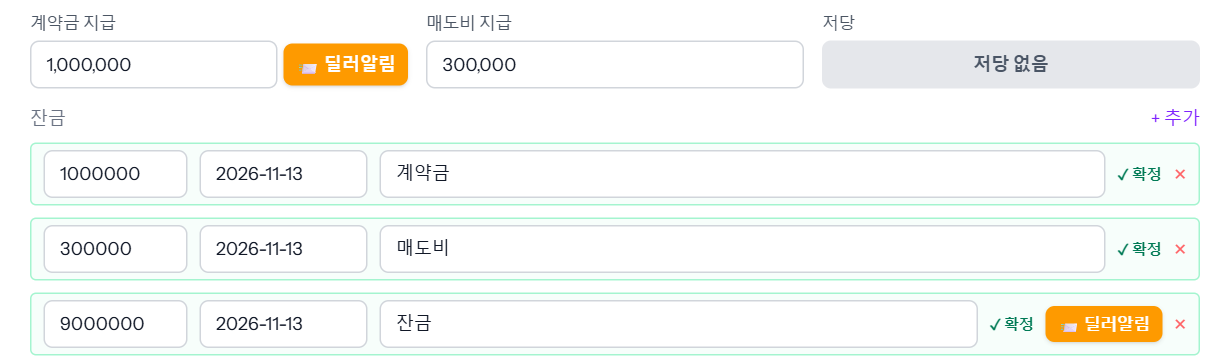
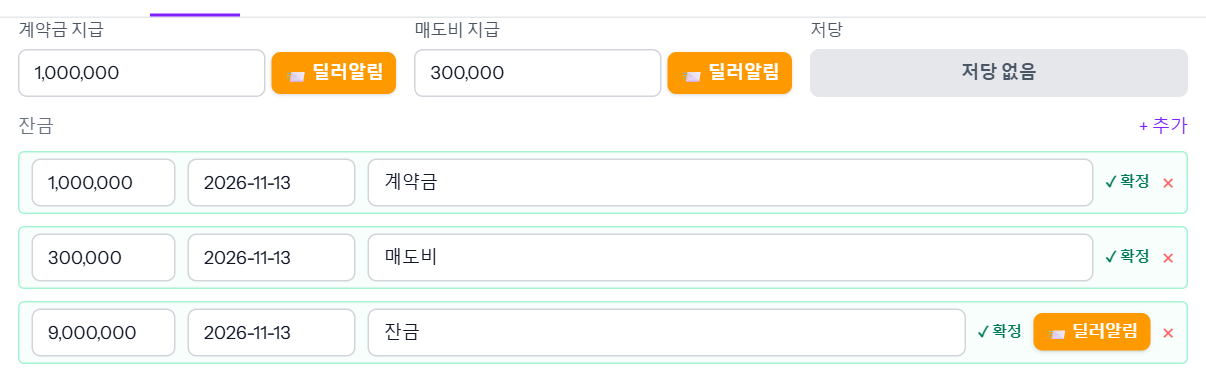
feat(vehicles): 매도비도 딜러 입금완료 알림톡 — 계약금과 같은 번호·같은 템플릿
jin «매도비도 계약금·매입잔금 받는 번호와 같아. 매도비도 넣어주라».
매입 탭 매도비 칸 옆에 [📨 딜러알림] (확정 매도비가 있을 때만, 계약금과 같은 모양).

- 발송·모달이 kind=selling_fee 를 받는다. 금액 = 확정 매도비 합계(계약금처럼 차 단위),
  이체확인증은 마지막 확정 매도비 줄에.
- 본문 「구분」 = 매도비(승인본의 변수 자리라 재승인 없음).
- 계좌 = 매도비 계좌가 있으면 그 뒤 4자리, 없으면 매입처 계좌(AccountMask::forSellingFee).
- 잔금 목록의 계약금·매도비 줄에는 여전히 버튼을 달지 않는다(중복 방지).
- 업무 가이드 「매입 지급과 딜러 입금완료 알림」 글·그림 갱신, 딜러알림 권한 문장 정정(11-22 누구나).

Claude-Session: https://claude.ai/code/session_01C7ygYdZAtd4AhsUU2YYM6i

diff --git a/resources/guides/purchase-payment/index.html b/resources/guides/purchase-payment/index.html
@@ -23,8 +23,8 @@
     <div class="gd-n">2단계</div>
     <h3>[수정 저장] — 재무가 넣은 지급은 바로 「확정」됩니다</h3>
     <p>창 오른쪽 아래 [수정 저장]을 누릅니다. 재무·관리 계정이 넣은 지급은 저장하는 순간 <strong>「✓ 확정」</strong>으로 기록되고, 따로 승인받을 필요가 없습니다.</p>
-    <p>차를 다시 열면 계약금·매도비도 잔금 목록에 한 줄씩(비고 「계약금」·「매도비」, 날짜는 저장한 날) 「✓ 확정」으로 보이고, 계약금 칸 옆과 잔금 줄 옆에 주황색 <strong>[📨 딜러알림]</strong> 버튼이 생깁니다.</p>
-    <img src="02.png" alt="계약금·매도비·잔금 세 줄이 확정으로 표시되고 딜러알림 버튼이 생긴 모습">
+    <p>차를 다시 열면 계약금·매도비도 잔금 목록에 한 줄씩(비고 「계약금」·「매도비」, 날짜는 저장한 날) 「✓ 확정」으로 보이고, 계약금 칸 옆 · 매도비 칸 옆 · 잔금 줄 옆에 주황색 <strong>[📨 딜러알림]</strong> 버튼이 생깁니다.</p>
+    <img src="02.png" alt="계약금·매도비·잔금 세 줄이 확정으로 표시되고 계약금 칸·매도비 칸·잔금 줄 옆에 딜러알림 버튼이 생긴 모습">
 </div>
 
 <div class="gd-step">
@@ -55,7 +55,7 @@
 <div class="gd-step">
     <div class="gd-n">5단계</div>
     <h3>[📨 딜러알림] → 이체확인증을 붙이고 보냅니다</h3>
-    <p>실제로 송금한 뒤에 누릅니다. 계약금은 계약금 칸 옆, 잔금은 <strong>그 잔금 줄 옆</strong>의 버튼입니다(잔금을 나눠 보냈으면 줄마다 따로 보냅니다). 매도비에는 버튼이 없습니다.</p>
+    <p>실제로 송금한 뒤에 누릅니다. 계약금은 계약금 칸 옆, 잔금은 <strong>그 잔금 줄 옆</strong>의 버튼입니다(잔금을 나눠 보냈으면 줄마다 따로 보냅니다). 매도비는 매도비 칸 옆의 버튼입니다 — 같은 딜러 번호로 「구분: 매도비」가 나가고, 계좌는 매도비 계좌를 따로 적어 뒀으면 그 계좌 뒤 4자리, 비어 있으면 매입처 계좌 뒤 4자리가 찍힙니다.</p>
     <p>누르면 「딜러에게 입금 완료 알림톡 보내기」 창이 뜹니다.</p>
     <ul>
         <li><strong>이체확인증 붙이기</strong> — 은행 이체 화면을 Win+Shift+S로 찍은 뒤 이 창에서 Ctrl+V로 붙여넣거나, [파일 선택]으로 이미지·PDF(10MB까지)를 고릅니다.</li>
@@ -92,7 +92,7 @@
 <div class="gd-check">
     <h3>알아 둘 것</h3>
     <ul>
-        <li>지급 기록과 [📨 딜러알림]은 재무·관리만 할 수 있습니다. 영업 계정에서는 칸이 회색으로 잠겨 있습니다.</li>
+        <li>지급 기록은 재무·관리만 할 수 있습니다(영업 계정에서는 칸이 회색으로 잠겨 있습니다). [📨 딜러알림]은 그 차를 볼 수 있는 사람이면 누구나 보낼 수 있습니다.</li>
         <li>딜러 알림은 <strong>실제로 송금한 뒤</strong>에 보냅니다. 버튼은 확정된 금액만 보냅니다(저장 안 한 금액은 안 나갑니다).</li>
         <li>저당 표시를 바꿨으면 먼저 [수정 저장]을 누른 뒤 보내세요. 저장하지 않고 보내면 「저당 표시를 바꾼 뒤 아직 저장하지 않았습니다」가 뜨며 막힙니다.</li>
         <li>아직 확정되지 않은 매입 지급은 「재무 처리」 메뉴 「매입 잔금」 탭의 「재무 대기」에 모입니다. 거기서 [재무 처리 완료]를 누르면 확정됩니다.</li>

diff --git a/resources/views/livewire/erp/vehicles/index.blade.php b/resources/views/livewire/erp/vehicles/index.blade.php
@@ -3856,6 +3856,18 @@ new #[Layout('components.layouts.app')] class extends Component {
             ->where('type', 'down')->whereNotNull('confirmed_at')->sum('amount');
     }
 
+    /** 확정된 매도비 합계 — 매도비 입금완료 알림톡 버튼 조건(jin 2026-11-24 «매도비도 넣어주라»). 계약금과 같은 DB 확정분 기준. */
+    #[Computed]
+    public function confirmedSellingFee(): int
+    {
+        if ($this->editingId === null) {
+            return 0;
+        }
+
+        return (int) \App\Models\PurchaseBalancePayment::where('vehicle_id', $this->editingId)
+            ->where('type', 'selling_fee')->whereNotNull('confirmed_at')->sum('amount');
+    }
+
     /**
      * board 신호 회신 — 이 차 1대만 닫는다(묶음 통째가 아니라 부분입금 대응).
      * 권한 = canConfirmFinance(super·admin·업무관리자·role∈{재무,관리}).
@@ -5812,7 +5824,9 @@ new #[Layout('components.layouts.app')] class extends Component {
      */
     private function deliverPurchasePaid(string $kind, ?int $pbpId, ?\App\Models\PurchaseBalancePayment $proofRow): void
     {
-        abort_unless(in_array($kind, ['down', 'balance'], true), 422);
+        // 💰 매도비(selling_fee)도 같은 딜러 번호로 보낸다(jin 2026-11-24 «매도비도 계약금·매입잔금 받는 번호와 같아»).
+        //    승인된 본문의 「구분」이 변수라 재승인 없이 「매도비」로 나간다. 계좌는 매도비 계좌(없으면 매입처 계좌).
+        abort_unless(in_array($kind, ['down', 'balance', 'selling_fee'], true), 422);
         // 🔓 딜러 수동 알림톡 3종은 권한을 나누지 않는다 — 그 차를 볼 수 있으면 보낸다(jin 2026-11-22 «누구나로 변경»).
 
         if ($this->editingId === null) {
@@ -5829,9 +5843,9 @@ new #[Layout('components.layouts.app')] class extends Component {
         }
 
         // 금액 — 화면 draft 가 아니라 **DB 의 확정 행**에서 읽는다(저장 전 입력값을 보내면 거짓 통지).
-        if ($kind === 'down') {
+        if ($kind === 'down' || $kind === 'selling_fee') {
             $amount = (int) $vehicle->purchaseBalancePayments()
-                ->where('type', 'down')->whereNotNull('confirmed_at')->sum('amount');
+                ->where('type', $kind)->whereNotNull('confirmed_at')->sum('amount');
         } else {
             $row = $vehicle->purchaseBalancePayments()
                 ->where('type', 'balance')->whereNotNull('confirmed_at')->find($pbpId);
@@ -5880,9 +5894,9 @@ new #[Layout('components.layouts.app')] class extends Component {
 
         $vars = [
             '차량번호' => $vehicle->vehicle_number,
-            '구분' => $kind === 'down' ? __('vehicle.paidnotice.kind_down') : __('vehicle.paidnotice.kind_balance'),
+            '구분' => __('vehicle.paidnotice.kind_'.$kind),
             '금액' => number_format($amount).'원',
-            '계좌' => \App\Support\AccountMask::forVehicle($vehicle),
+            '계좌' => $kind === 'selling_fee' ? \App\Support\AccountMask::forSellingFee($vehicle) : \App\Support\AccountMask::forVehicle($vehicle),
             '입금자명' => \App\Support\AlimtalkConfig::active()->companyLabel(),
         ];
 
@@ -6001,7 +6015,7 @@ new #[Layout('components.layouts.app')] class extends Component {
      */
     public function openPaidNotice(string $kind, ?int $pbpId = null): void
     {
-        abort_unless(in_array($kind, ['down', 'balance'], true), 422);
+        abort_unless(in_array($kind, ['down', 'balance', 'selling_fee'], true), 422);
         // 🔓 딜러 수동 알림톡 3종은 권한을 나누지 않는다 — 그 차를 볼 수 있으면 보낸다(jin 2026-11-22 «누구나로 변경»).
         if ($this->editingId === null) {
             $this->dispatch('notify', message: __('vehicle.paidnotice.save_first'), type: 'warning');
@@ -6012,9 +6026,11 @@ new #[Layout('components.layouts.app')] class extends Component {
         abort_unless($vehicle && auth()->user()->canScopeVehicle($vehicle), 403);
 
         $rows = $vehicle->purchaseBalancePayments()->where('type', $kind)->whereNotNull('confirmed_at');
-        $row = $kind === 'down' ? $rows->orderByDesc('id')->first() : $rows->find($pbpId);
-        $amount = $kind === 'down'
-            ? (int) $vehicle->purchaseBalancePayments()->where('type', 'down')->whereNotNull('confirmed_at')->sum('amount')
+        // 계약금·매도비는 차 단위(금액칸 옆 버튼) — 합계를 보내고 이체확인증은 마지막 확정 줄에 붙인다. 잔금은 줄 단위.
+        $perVehicle = $kind === 'down' || $kind === 'selling_fee';
+        $row = $perVehicle ? $rows->orderByDesc('id')->first() : $rows->find($pbpId);
+        $amount = $perVehicle
+            ? (int) $vehicle->purchaseBalancePayments()->where('type', $kind)->whereNotNull('confirmed_at')->sum('amount')
             : (int) ($row->amount ?? 0);
         if (! $row || $amount <= 0) {
             $this->dispatch('notify', message: __('vehicle.paidnotice.not_confirmed'), type: 'error');
@@ -10678,9 +10694,19 @@ function vehicleColumnsToggle(columns, serverKnows) {
                 </div>
                 <div>
                     <label class="label-base">{{ __('vehicle.field.selling_fee_payment') }}</label>
-                    <input wire:model="selling_fee_payment_str" type="text" data-money
-                           class="input-base {{ $canConfirmFinance ? '' : 'bg-gray-100 text-gray-500' }}"
-                           placeholder="0" @if(!$canConfirmFinance) disabled @endif />
+                    <div class="flex items-center gap-1">
+                        <input wire:model="selling_fee_payment_str" type="text" data-money
+                               class="input-base min-w-0 flex-1 {{ $canConfirmFinance ? '' : 'bg-gray-100 text-gray-500' }}"
+                               placeholder="0" @if(!$canConfirmFinance) disabled @endif />
+                        {{-- 딜러에게 「매도비 입금완료」 통지 (jin 2026-11-24) — 계약금과 같은 번호·같은 템플릿, 확정 매도비가 있을 때만. --}}
+                        @if($editingId !== null && $this->paidNoticeEnabled && $this->confirmedSellingFee > 0)
+                        <button type="button" wire:click="openPaidNotice('selling_fee')"
+                                title="{{ __('vehicle.paidnotice.btn_title') }}"
+                                class="shrink-0 whitespace-nowrap rounded-md bg-amber-500 px-2 py-1.5 text-xs font-semibold text-white shadow-sm hover:bg-amber-600">
+                            {{ __('vehicle.paidnotice.btn') }}
+                        </button>
+                        @endif
+                    </div>
                 </div>
                 {{-- 저당 표시 (jin 2026-08-21) — 계약금·매입잔금 송금 알림톡에 「저당 해지를 부탁드립니다」 를
                      실을지 가른다. 그래서 **송금 칸 옆**에 둔다(딜러 알림톡 번호칸이 아니라).
@@ -14092,7 +14118,7 @@ function vehicleColumnsToggle(columns, serverKnows) {
 @if($paidNotice)
 @php
     $pn = $paidNotice;
-    $pnKind = $pn['kind'] === 'down' ? __('vehicle.paidnotice.kind_down') : __('vehicle.paidnotice.kind_balance');
+    $pnKind = __('vehicle.paidnotice.kind_'.$pn['kind']);
     $pnV3 = $this->paidNoticeCode === 'erp_purchase_paid_v2' && \App\Support\AlimtalkConfig::active()->canSend('erp_purchase_paid_v3');
     $pnPreview = null;
     if ($paidProofUpload) {

diff --git a/tests/Feature/PurchasePaidNoticeTest.php b/tests/Feature/PurchasePaidNoticeTest.php
@@ -103,6 +103,31 @@ class PurchasePaidNoticeTest extends TestCase
     }
 
     /**
+     * 💰 매도비 — 계약금과 같은 딜러 번호·같은 템플릿, 「구분」만 매도비(jin 2026-11-24).
+     * 계좌는 매도비 계좌가 따로 있으면 그것(딜러 매도비 받는 계좌), 없으면 매입처 계좌.
+     */
+    public function test_selling_fee_notice_uses_the_fee_account_when_set(): void
+    {
+        $this->configureAlimtalk();
+        $this->okHttp();
+        $this->actingAs($this->finance());
+
+        $v = $this->vehicle();
+        $this->pay($v, 'selling_fee', 440_000);
+        $this->send($v, 'selling_fee');
+        $msg = (string) AlimtalkLog::where('template_code', 'erp_purchase_paid')->latest('id')->value('message');
+        $this->assertStringContainsString('매도비', $msg);
+        $this->assertStringContainsString('440,000원', $msg);
+        $this->assertStringContainsString('국민 ****1234', $msg, '매도비 계좌가 없으면 매입처 계좌');
+
+        $v->update(['purchase_fee_bank' => '신한', 'purchase_fee_account' => '110-222-335577', 'purchase_fee_holder' => '박매도']);
+        $this->send($v, 'selling_fee');
+        $msg = (string) AlimtalkLog::where('template_code', 'erp_purchase_paid')->latest('id')->value('message');
+        $this->assertStringContainsString('신한 ****5577', $msg, '매도비 계좌가 있으면 그것');
+        $this->assertStringNotContainsString('****1234', $msg);
+    }
+
+    /**
      * 🚨 **핵심 가드 — 잔금은 그 행 하나만 보낸다.**
      *
      * 운영 실측 239대 중 24대가 잔금을 2~3회 분할 지급한다. 합계를 보내면 두 번째 알림이
@@ -283,8 +308,10 @@ class PurchasePaidNoticeTest extends TestCase
 
         $html = $this->panelHtml($v);
 
-        $this->assertSame(2, substr_count($html, 'openPaidNotice('),
-            '계약금 1(금액칸 옆) + 잔금 1 = 2개여야 한다 — 계약금·매도비 행에도 붙었다');
+        // 🔀 2026-11-24 매도비도 금액칸 옆에 1개(jin «매도비도 넣어주라») — 잔금 목록의 계약금·매도비 행에는 여전히 없다.
+        $this->assertSame(3, substr_count($html, 'openPaidNotice('),
+            '계약금 1 + 매도비 1(금액칸 옆) + 잔금 1 = 3개여야 한다 — 잔금 목록의 계약금·매도비 행에도 붙었다');
+        $this->assertSame(1, substr_count($html, "openPaidNotice('selling_fee')"));
     }
 
     /**

diff --git a/app/Support/AccountMask.php b/app/Support/AccountMask.php
@@ -29,6 +29,17 @@ class AccountMask
         return self::format($vehicle->purchase_seller_bank, $vehicle->purchase_seller_account);
     }
 
+    /**
+     * 매도비 입금 안내용 (jin 2026-11-24) — 매도비 계좌(`purchase_fee_*`)가 따로 있으면 그것, 비었으면 매입처 계좌.
+     * 매도비 계좌는 「비우면 위 매입처 계좌만 쓴다」(차량 등록 가이드) — 송금도 그렇게 나간다.
+     */
+    public static function forSellingFee(Vehicle $vehicle): string
+    {
+        return filled($vehicle->purchase_fee_account) || filled($vehicle->purchase_fee_bank)
+            ? self::format($vehicle->purchase_fee_bank, $vehicle->purchase_fee_account)
+            : self::forVehicle($vehicle);
+    }
+
     /** 예: ('국민', '123456-78-901234') → '국민 ****1234' / 계좌 없으면 '-'. */
     public static function format(?string $bank, ?string $account): string
     {

diff --git a/lang/en/vehicle.php b/lang/en/vehicle.php
@@ -1326,6 +1326,7 @@ return [
         'btn_title' => 'Notify the domestic dealer by KakaoTalk that this amount was paid',
         'kind_down' => 'Down payment',
         'kind_balance' => 'Purchase balance',
+        'kind_selling_fee' => 'Selling fee',
         'modal_title' => 'Send payment-complete notice to the dealer',
         'proof' => 'Transfer receipt',
         'paste_hint' => 'Paste the transfer receipt screenshot here with Ctrl+V',

diff --git a/lang/ko/vehicle.php b/lang/ko/vehicle.php
@@ -1348,6 +1348,7 @@ return [
         'btn_title' => '이 금액을 입금했다고 국내 딜러에게 알림톡으로 알립니다',
         'kind_down' => '계약금',
         'kind_balance' => '매입잔금',
+        'kind_selling_fee' => '매도비',
         // 📎 이체확인증 모달 (jin 2026-10-23)
         'modal_title' => '딜러에게 입금 완료 알림톡 보내기',
         'proof' => '이체확인증',
